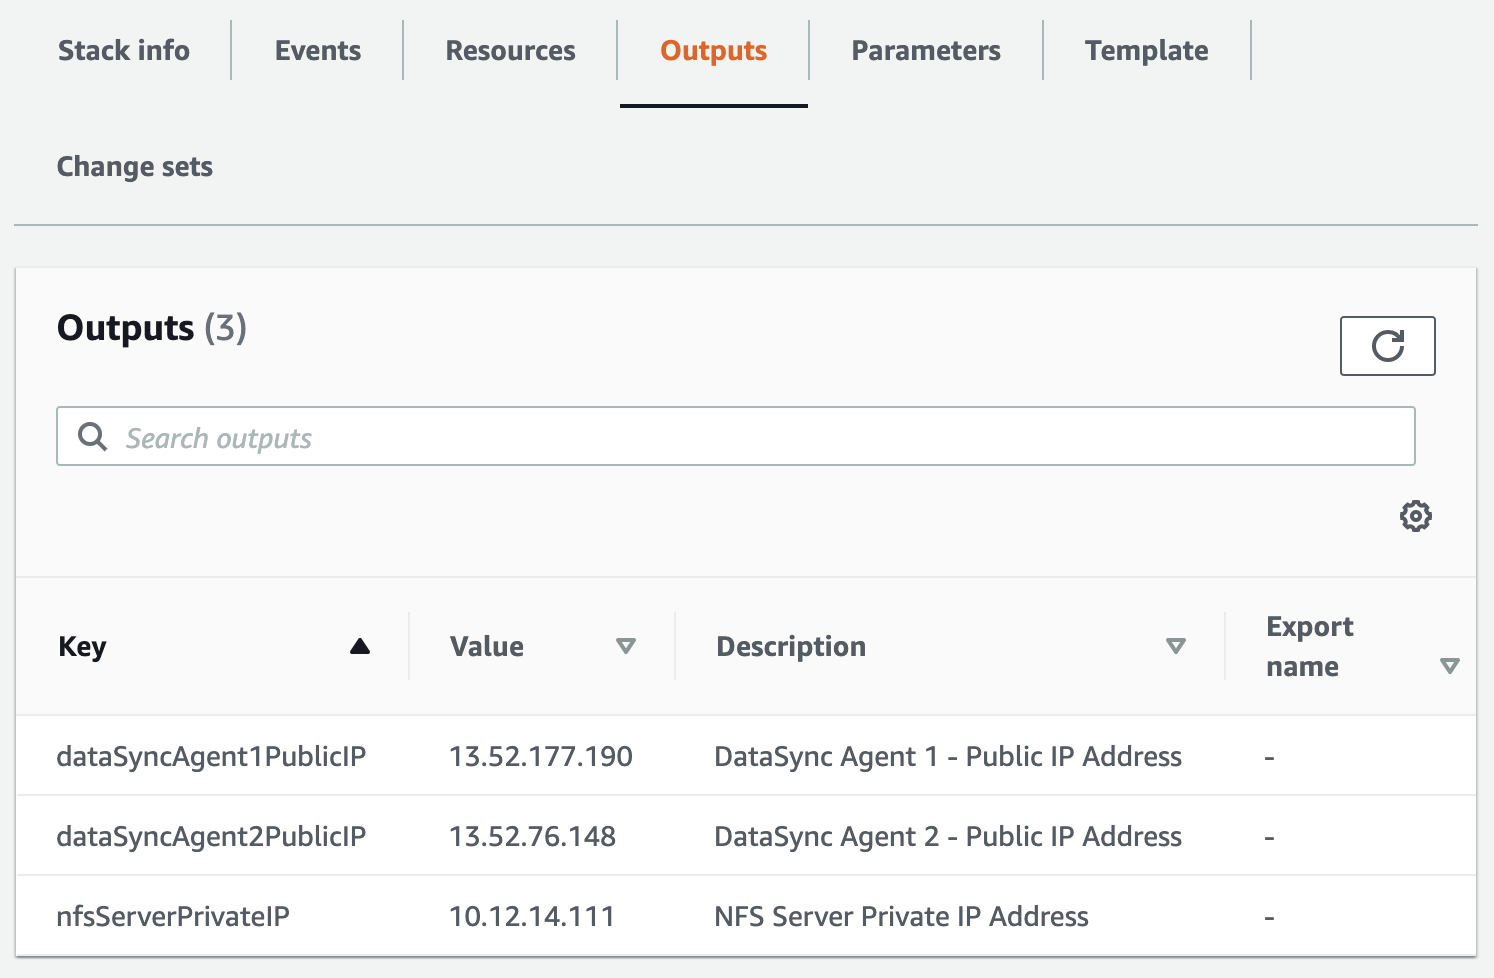
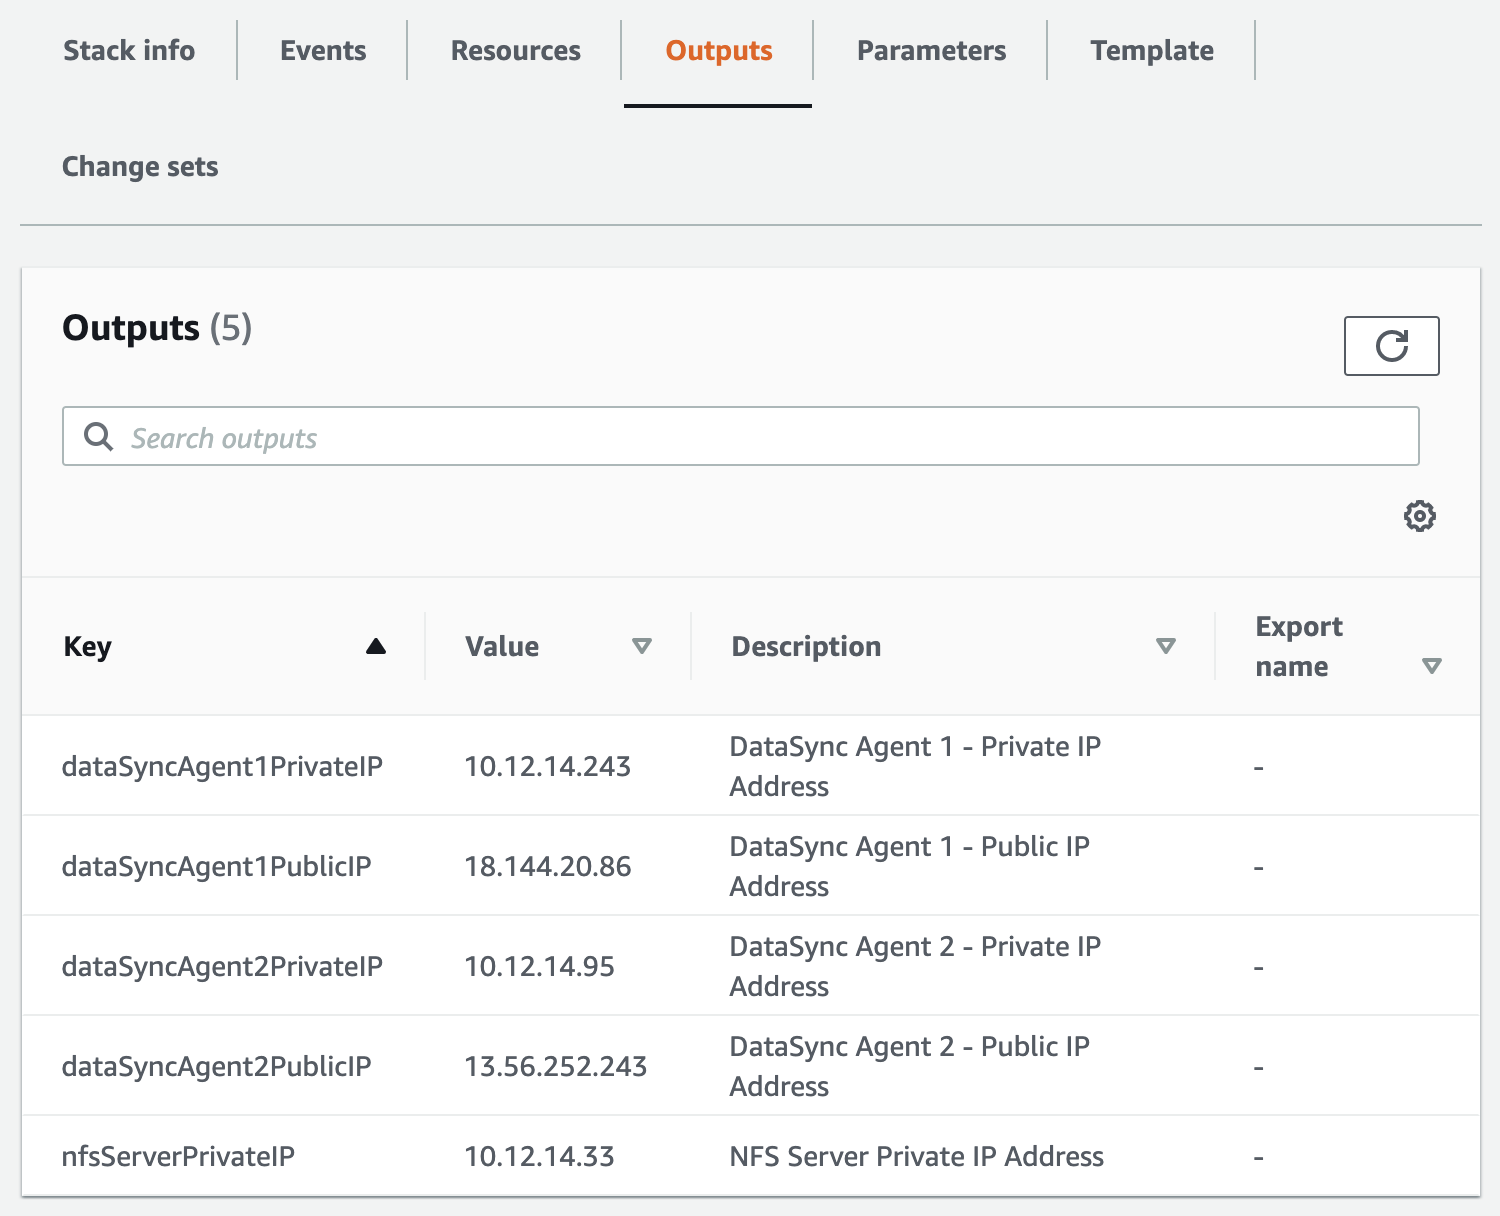
Add agent private IP addresses to CF output

diff --git a/workshops/nfs-million-files/module1/README.md b/workshops/nfs-million-files/module1/README.md
@@ -66,7 +66,9 @@ Upon completion, each CloudFormation stack will have a list of &quot;Outputs&quo
 
 On the CloudFormation page in the **ON-PREMISES** region, click on the **Outputs** tab, as shown in the image below.  You should see the following values listed:
 
+- **dataSyncAgent1PrivateIP** – This is the private IP address of the EC2 instance running the first DataSync agent.  You will use this when configuring exports on the NFS server.
 - **dataSyncAgent1PublicIP** – This is the public IP address of the EC2 instance running the first DataSync agent.  You will use this when activating this particular DataSync agent.
+- **dataSyncAgent2PrivateIP** – This is the private IP address of the EC2 instance running the second DataSync agent.  You will use this when configuring exports on the NFS server.
 - **dataSyncAgent2PublicIP** – This is the public IP address of the EC2 instance running the second DataSync agent.  You will use this when activating this particular DataSync agent.
 - **nfsServerPrivateIP** – This is the private IP address of the NFS server.  You will use this when creating a location for DataSync.
 

diff --git a/workshops/nfs-million-files/module2/README.md b/workshops/nfs-million-files/module2/README.md
@@ -76,7 +76,7 @@ You want to transfer data from all three file systems using DataSync.  To do so,
         /mnt/fs2 10.12.14.99(ro,no_root_squash) 10.12.14.16(ro,no_root_squash)
         /mnt/fs3 10.12.14.99(ro,no_root_squash) 10.12.14.16(ro,no_root_squash)
 
-  Replace the IP addresses above with the **private** IP address assigned to the EC2 instances for each DataSync agent.
+  Replace the IP addresses above with the corresponding **private** IP address assigned to the EC2 instances for each DataSync agent, as reported in the CloudFormation Outputs for the **ON-PREMISES** region.
 
 2. Run the following command to restart the NFS server and apply the export settings:
 
